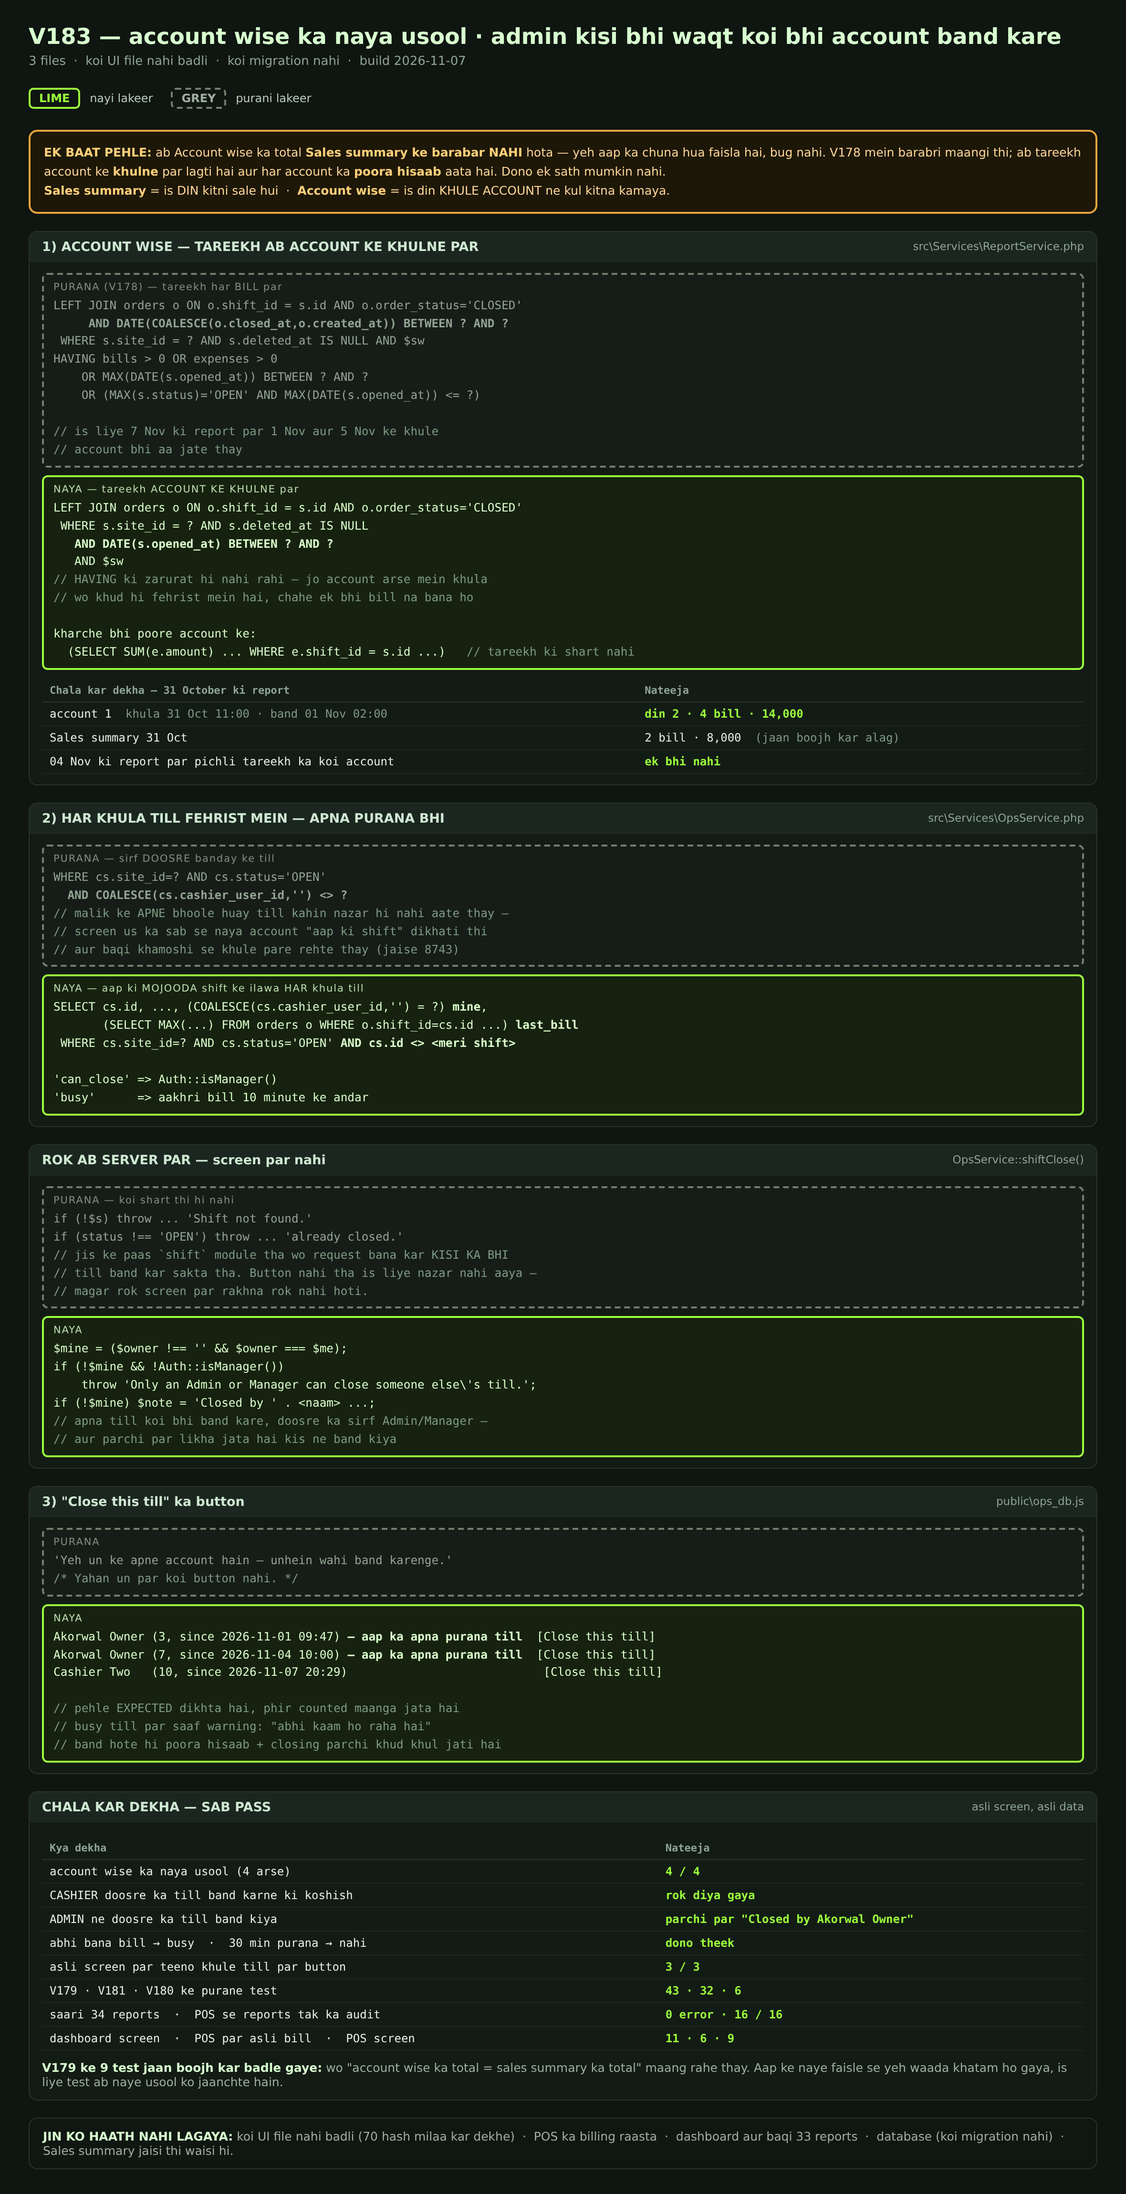
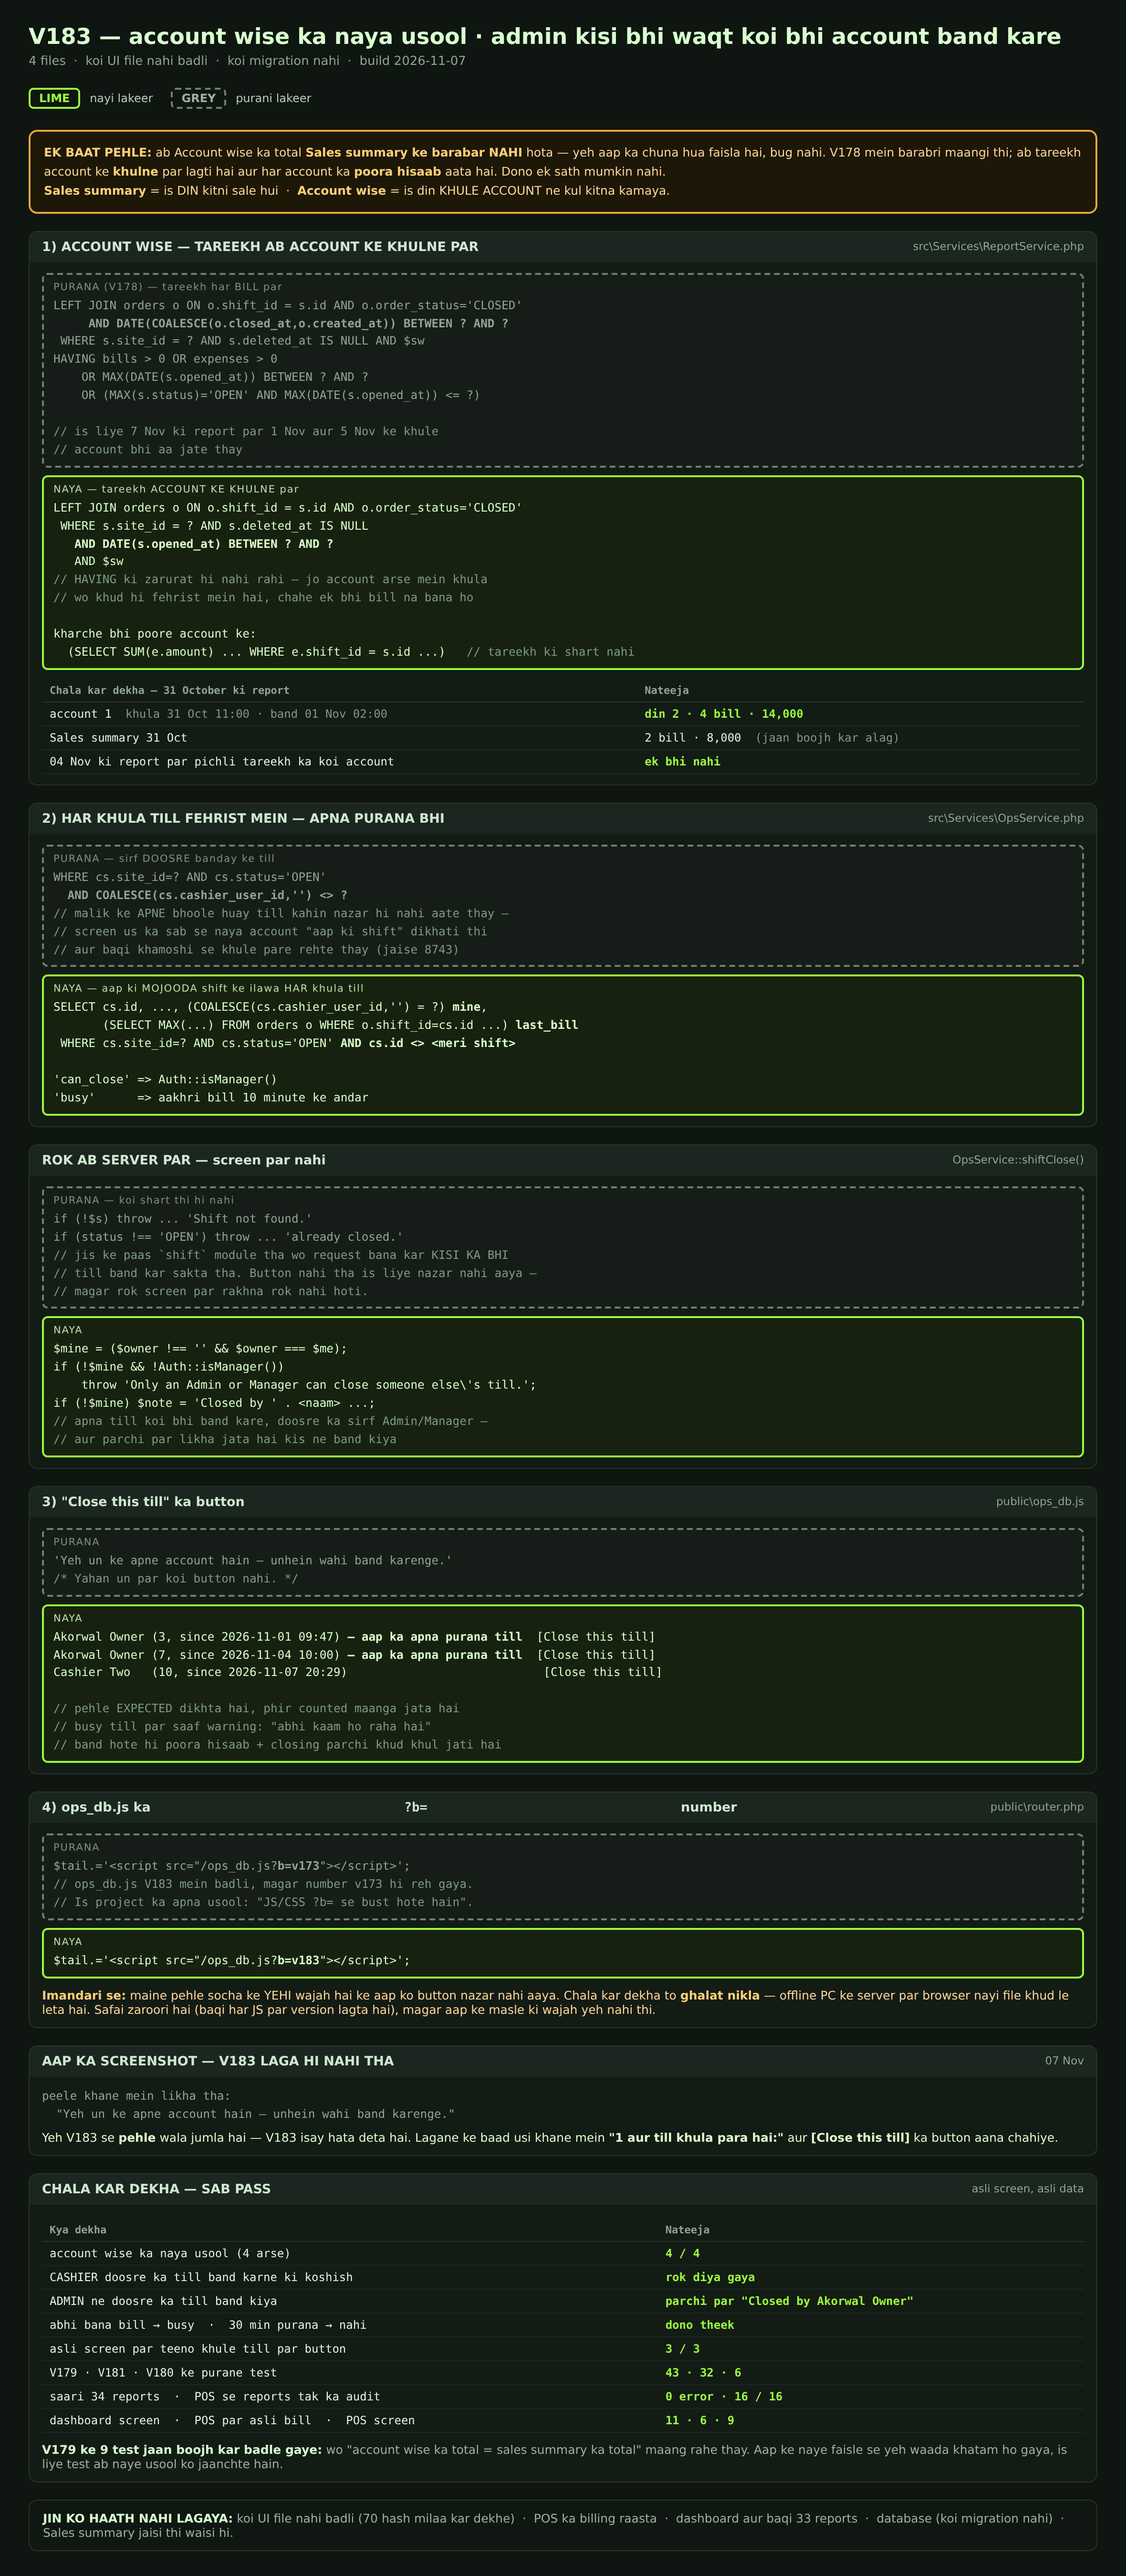
update x

diff --git a/public/router.php b/public/router.php
@@ -205,18 +205,6 @@ if(!in_array($name,$publicPages,true)){
   $key=($isRetail && !in_array($name,$sharedPages,true))
        ? ($retailModule[$name]??null)
        : ($fileModule[$name]??null);
-  /* ============================================================
-     V175 — RENEW KA RAASTA KABHI BAND NA HO.
-
-     `Auth::canModule()` ab ALWAYS_ON ka lihaz karti hai, is liye yeh
-     lakeer asal fix nahi — yeh doosra taala hai. Renewal wo ek screen
-     hai jis ke band hone ka matlab yeh hai ke customer paisay dena
-     chahta ho to bhi na de sake. Us ka raasta kisi features ki list,
-     kisi role, ya kisi aainda ki ghalti par nahi chhorna.
-
-     Login ki shart phir bhi lagti hai (upar wali lakeer), sirf module
-     ka pehra hatta hai. */
-  if($name==='activate.html') $key=null;
   /* V78 — DASHBOARD par bhi ijazat check hoti hai.
      Pehle yahan `$key!=='dashboard'` tha, yani dashboard HAMESHA khula
      rehta tha. Cashier wahan se poore branch ki sale dekh sakta tha —
@@ -467,7 +455,12 @@ if($uiDir!=='approved_ui/retail' &&
                    'stock_transfer.html','stock_count.html','accounting.html',
                    'closing_history.html','activity_log.html','purchase_orders.html','backup_restore.html',
                    'online_orders.html','whatsapp_notifications.html'],true))
-  $tail.='<script src="/ops_db.js?b=v173"></script>';
+  /* V183 — `?b=` BUMP KARNA ZAROORI HAI JAB BHI ops_db.js BADLE.
+     JS `Cache-Control: public, max-age=3600` ke saath jati hai, is liye
+     browser purani copy hi chalata rehta hai jab tak URL na badle. V183
+     mein ops_db.js badli (Close this till ka button) magar yeh v173 hi
+     raha — nateeja: update lagne ke BAAD bhi screen purani hi dikhti. */
+  $tail.='<script src="/ops_db.js?b=v183"></script>';
 
 // AAKHRI closing body tag par inject karo (pehla nahi) — wahi asli document end hai.
 $posB=strripos($html,'</body>');
@@ -476,4 +469,4 @@ else $html.=$tail;
 header('Cache-Control: no-store, must-revalidate'); // HTML kabhi cache na ho; JS/CSS ?b= se bust hote hain
 echo$html;
 
-// build: V175 build 2026-10-29
+// build: V167 build 2026-10-25
